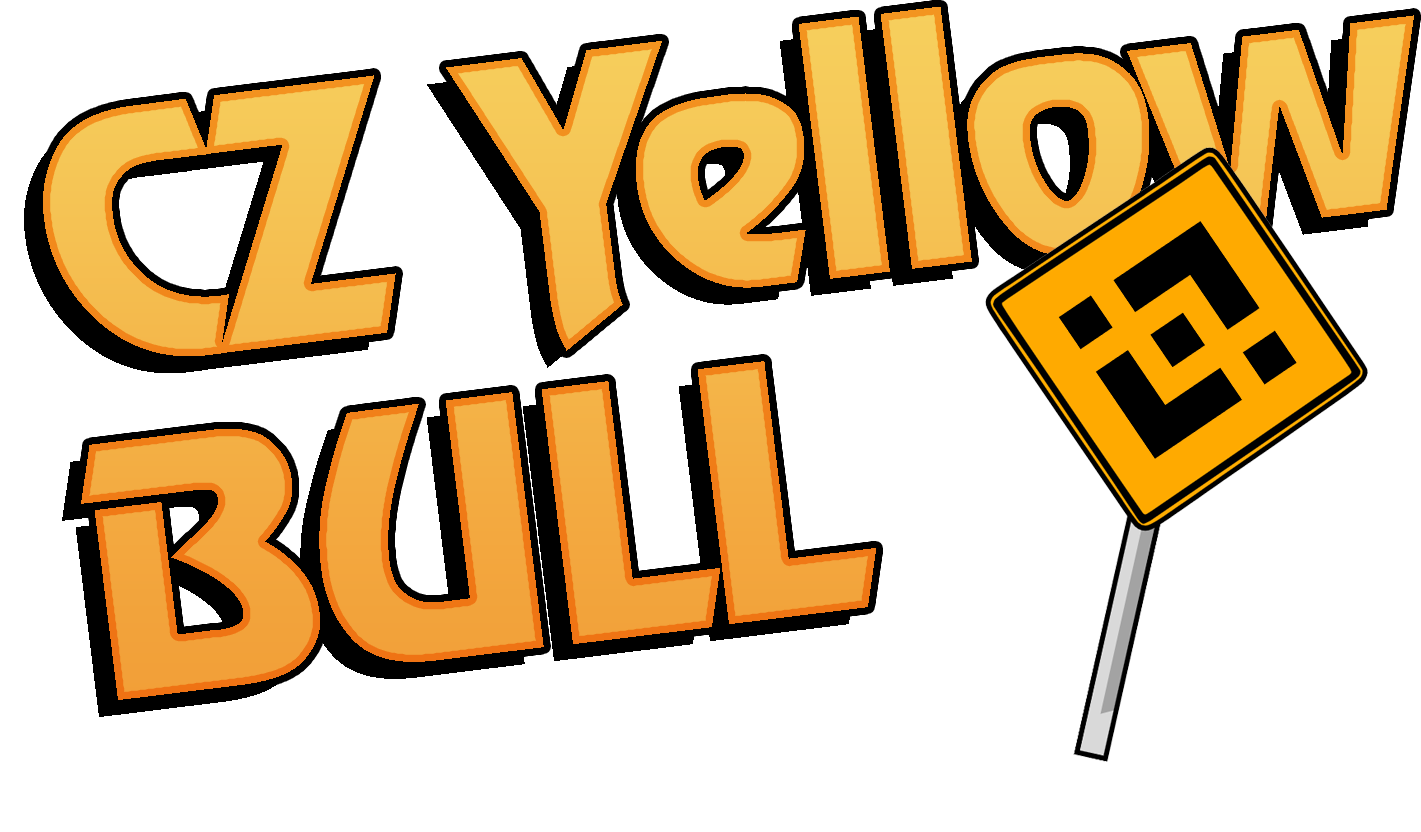
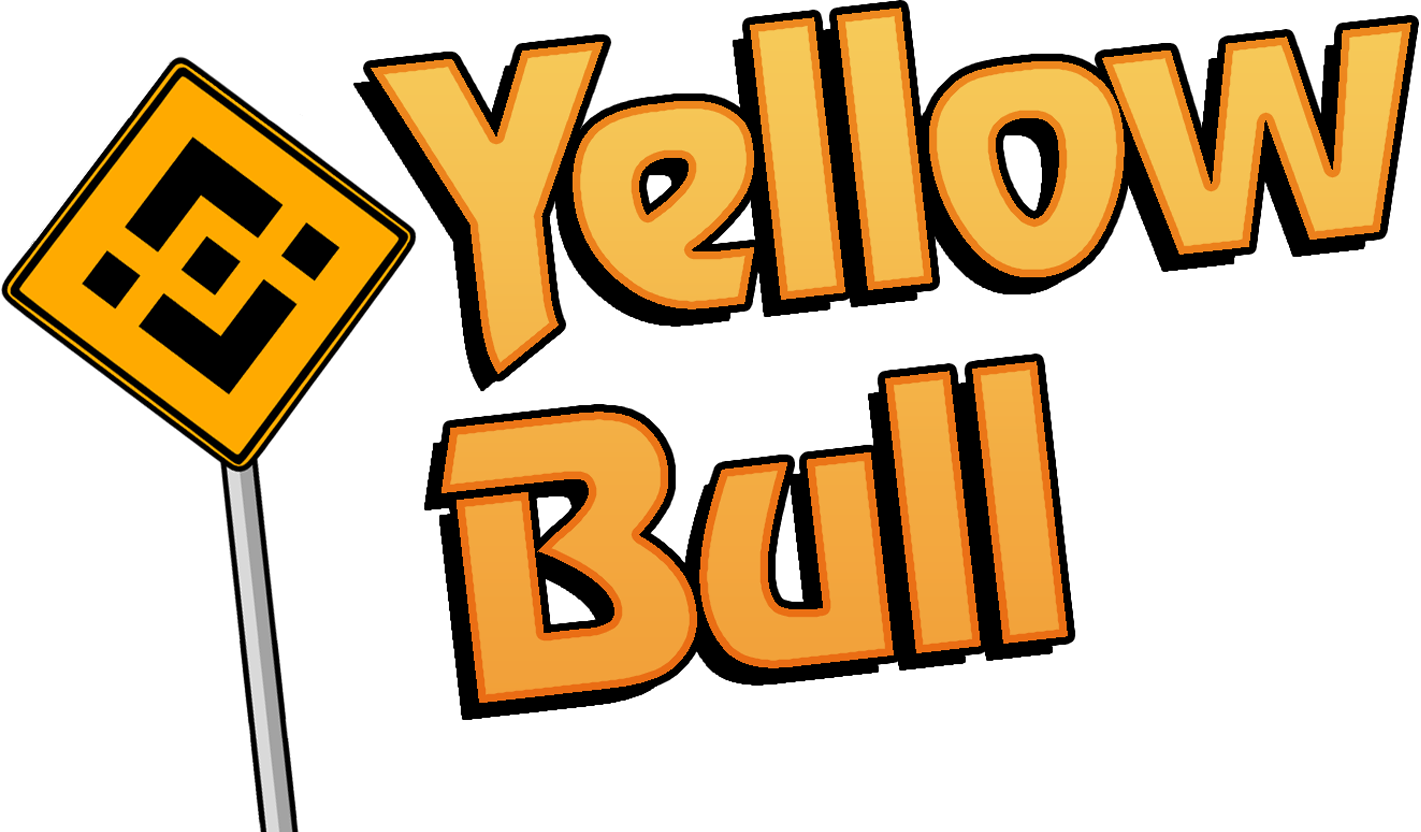
sdf

diff --git a/index.html b/index.html
@@ -1,7 +1,7 @@
 <!DOCTYPE html>
 <html lang="en">
   <head>
-    <title>CZ Yellow BULL</title>
+    <title>Binance Yellow BULL</title>
     <meta charset="UTF-8" />
     <meta name="format-detection" content="telephone=no" />
     <style>
@@ -69,7 +69,7 @@
             <div class="header__actions" data-da=".menu__body, 767.98">
               <div class="header__social">
                 <a
-                  href="https://x.com/CZYellowBull"
+                  href="https://x.com/BnbYellowBull"
                   target="_blank"
                   class="header__social-item"
                 >
@@ -87,7 +87,7 @@
                   </svg>
                 </a>
                 <a
-                  href="https://t.me/CZYellowBull"
+                  href="https://t.me/BnbYellowBull"
                   target="_blank"
                   class="header__social-item"
                 >
@@ -108,7 +108,7 @@
                 </a>
               </div>
               <a
-                href="http://pancakeswap.finance/swap?inputCurrency=BNB&outputCurrency=0xb40C18A57E70b760F38d0B00D5777803Fa33A866"
+                href="http://pancakeswap.finance/swap?inputCurrency=BNB&outputCurrency=0xTBA"
                 target="_blank"
                 class="header__button"
                 ><span>BUY now<i>!</i><i>!</i><i>!</i></span></a
@@ -127,12 +127,12 @@
           <div class="hero__container">
             <div class="hero__content">
               <h1 class="hero__title">
-                <img src="img/HeroTitle.png" alt="CZ Yellow BULL" />
+                <img src="img/HeroTitle.png" alt="Binance Yellow BULL" />
               </h1>
               <div class="hero__actions">
                 <div class="hero__social">
                   <a
-                    href="https://x.com/CZYellowBull"
+                    href="https://x.com/BnbYellowBull"
                     target="_blank"
                     class="hero__social-item"
                   >
@@ -152,7 +152,7 @@
                     </span>
                   </a>
                   <a
-                    href="https://t.me/CZYellowBull"
+                    href="https://t.me/BnbYellowBull"
                     target="_blank"
                     class="hero__social-item"
                   >
@@ -174,7 +174,7 @@
                     </span>
                   </a>
                   <a
-                    href="https://dexscreener.com/bsc/0xb40C18A57E70b760F38d0B00D5777803Fa33A866"
+                    href="https://dexscreener.com/bsc/0xTBA"
                     target="_blank"
                     class="hero__social-item"
                   >
@@ -203,7 +203,7 @@
                   </a>
                 </div>
                 <a
-                  href="http://pancakeswap.finance/swap?inputCurrency=BNB&outputCurrency=0xb40C18A57E70b760F38d0B00D5777803Fa33A866"
+                  href="http://pancakeswap.finance/swap?inputCurrency=BNB&outputCurrency=0xTBA"
                   target="_blank"
                   class="hero__button"
                 >
@@ -304,7 +304,7 @@
                 <img src="img/AboutTitle.png" alt="ABOUT" />
               </h2>
               <p class="about__text">
-                <span>Welcome to CZ Yellow BULL (YBULL)</span>
+                <span>Welcome to Binance Yellow BULL (YBULL)</span>
                 <span>
                   the wildest memecoin on Binance Smart Chain (BSC)!</span
                 >
@@ -312,7 +312,7 @@
                 <span>Crazy Herd, Fast & Cheap, All Vibes, No Value</span>
               </p>
               <a
-                href="http://pancakeswap.finance/swap?inputCurrency=BNB&outputCurrency=0xb40C18A57E70b760F38d0B00D5777803Fa33A866"
+                href="http://pancakeswap.finance/swap?inputCurrency=BNB&outputCurrency=0xTBA"
                 class="about__button"
               >
                 <span>BUY now<i>!</i><i>!</i><i>!</i></span>
@@ -546,7 +546,7 @@
             </h2>
             <div class="join__actions">
               <a
-                href="http://pancakeswap.finance/swap?inputCurrency=BNB&outputCurrency=0xb40C18A57E70b760F38d0B00D5777803Fa33A866"
+                href="http://pancakeswap.finance/swap?inputCurrency=BNB&outputCurrency=0xTBA"
                 target="_blank"
                 class="join__button"
               >
@@ -554,7 +554,7 @@
               </a>
               <div class="join__social">
                 <a
-                  href="https://x.com/CZYellowBull"
+                  href="https://x.com/BnbYellowBull"
                   target="_blank"
                   class="join__social-item"
                 >
@@ -586,7 +586,7 @@
                   </span>
                 </a>
                 <a
-                  href="https://t.me/CZYellowBull"
+                  href="https://t.me/BnbYellowBull"
                   target="_blank"
                   class="join__social-item"
                 >
@@ -620,7 +620,7 @@
                   </span>
                 </a>
                 <a
-                  href="https://www.dextools.io/app/en/bnb/pair-explorer/0xb40C18A57E70b760F38d0B00D5777803Fa33A866"
+                  href="https://www.dextools.io/app/en/bnb/pair-explorer/0xTBA"
                   target="_blank"
                   class="join__social-item"
                 >
@@ -654,7 +654,7 @@
                   </span>
                 </a>
                 <a
-                  href="https://dexscreener.com/bsc/0xb40C18A57E70b760F38d0B00D5777803Fa33A866"
+                  href="https://dexscreener.com/bsc/0xTBA"
                   target="_blank"
                   class="join__social-item"
                 >
